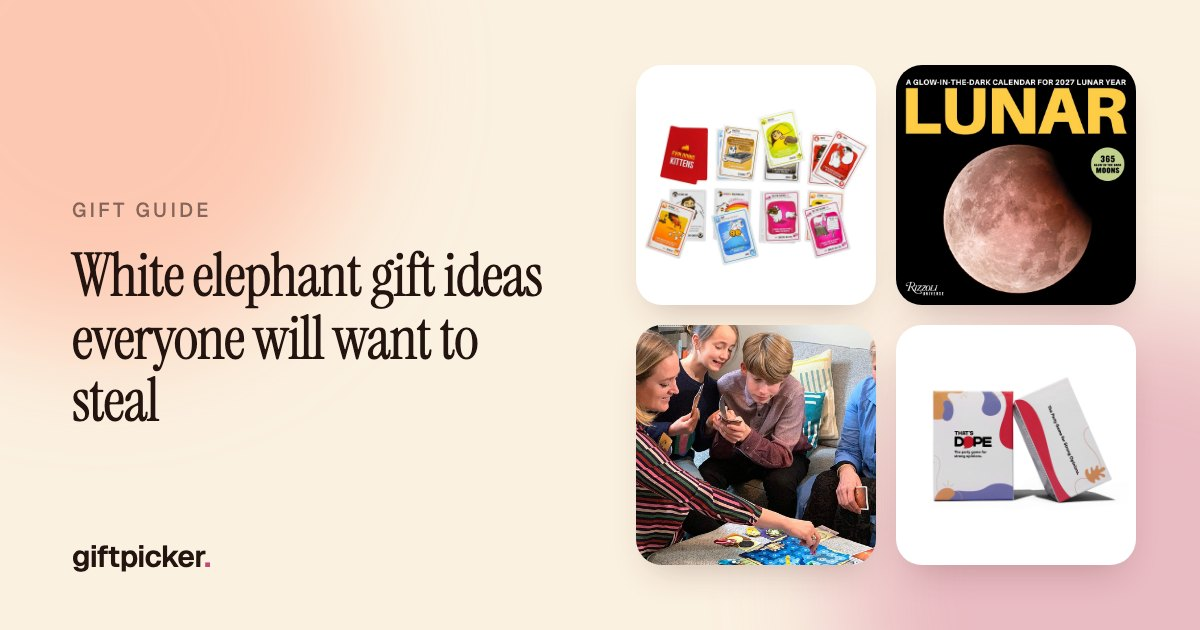
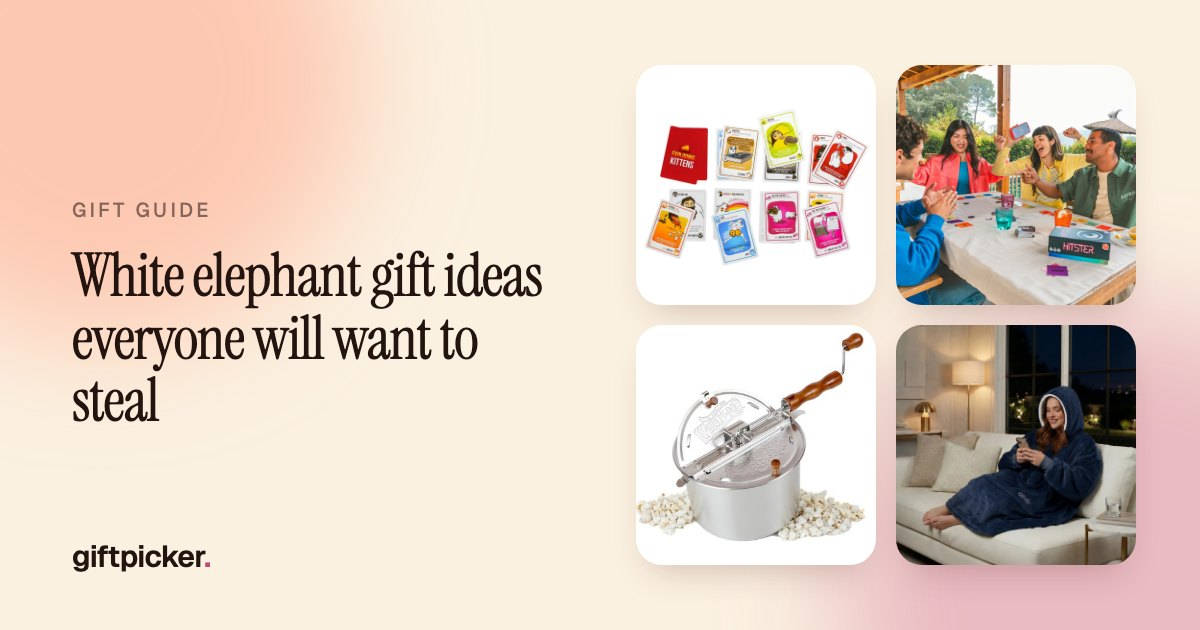
Refresh the three holiday guide share images (Secret Santa still showed the rejected Huzzle puzzle)
Share images now take one gift from each card row before a second from any, so the
white elephant image no longer shows three games. og:image URLs carry the post's
updated date so social sites fetch the new image.

Changed region(s): [[0.5242, 0.5127, 0.9558, 0.9048], [0.74, 0.0905, 0.9558, 0.4825]]

diff --git a/workers-site/index.js b/workers-site/index.js
@@ -7,7 +7,7 @@ import { APPS_SCRIPT_URL, GIFT_PATH, GIFTS_KEY } from "./config.js";
 import { SHOWCASE_IDS } from "../src/data/showcase.ts";
 import { liveThanks, THANKS_INTRO } from "../src/data/thanks.ts";
 import { MAX_EMAIL_GIFTS, isValidEmail } from "../src/data/emailList.ts";
-import { POSTS, findPost, formatPostDate, parseInline, postShareImage, postsFeaturing, postTitleTag, relatedPosts, segmentHref } from "../src/data/posts.ts";
+import { POSTS, findPost, formatPostDate, parseInline, postShareImageUrl, postsFeaturing, postTitleTag, relatedPosts, segmentHref } from "../src/data/posts.ts";
 
 /**
  * The DEBUG flag will do two things that help during development:
@@ -796,7 +796,7 @@ function blogIndexHtml(html) {
       url: `${url}/${p.slug}`,
       datePublished: p.published,
       dateModified: p.updated || p.published,
-      image: `${SITE_ORIGIN}${postShareImage(p)}`,
+      image: `${SITE_ORIGIN}${postShareImageUrl(p)}`,
     })),
   };
   const jsonLd = [blog, breadcrumbs([["Home", `${SITE_ORIGIN}/`], ["Gift guides", url]])];
@@ -821,7 +821,7 @@ function blogPostHtml(html, post, gifts) {
   const url = `${SITE_ORIGIN}/blog/${post.slug}`;
   const title = postTitleTag(post);
   const modified = post.updated || post.published;
-  const image = `${SITE_ORIGIN}${postShareImage(post)}`;
+  const image = `${SITE_ORIGIN}${postShareImageUrl(post)}`;
   const imageAlt = `${post.title}: a GiftPicker gift guide, with photos of gifts it recommends`;
   const byId = gifts ? new Map(gifts.map((g) => [g.row_id, g])) : null;
   const live = byId ? new Set(byId.keys()) : null;

diff --git a/src/data/posts.ts b/src/data/posts.ts
@@ -119,9 +119,14 @@ export function postTitleTag(post: Post): string {
   return post.metaTitle ?? `${post.title} · GiftPicker`;
 }
 
-/** The post's share image (1200x630, in public/blog/og/, made by scripts/make-share-images.mjs). */
+/** The post's share image file (1200x630, in public/blog/og/, made by scripts/make-share-images.mjs). */
 export function postShareImage(post: Post): string {
   return `/blog/og/${post.slug}.jpg`;
+}
+
+/** The share image URL for og:image; the date makes social sites fetch it again after an update. */
+export function postShareImageUrl(post: Post): string {
+  return `${postShareImage(post)}?v=${post.updated ?? post.published}`;
 }
 
 /** Two or three posts to link at the end of a post: its `related` list, topped up with the newest others. */
